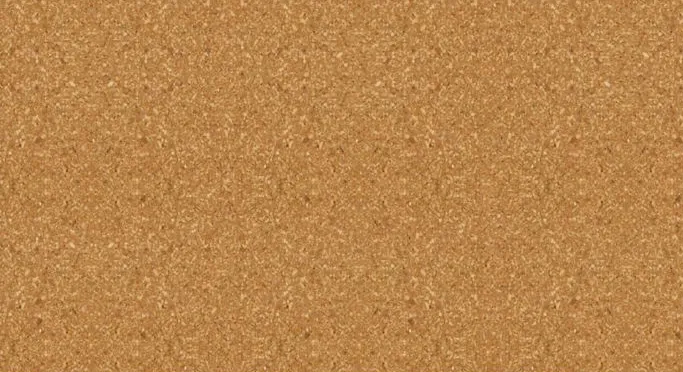
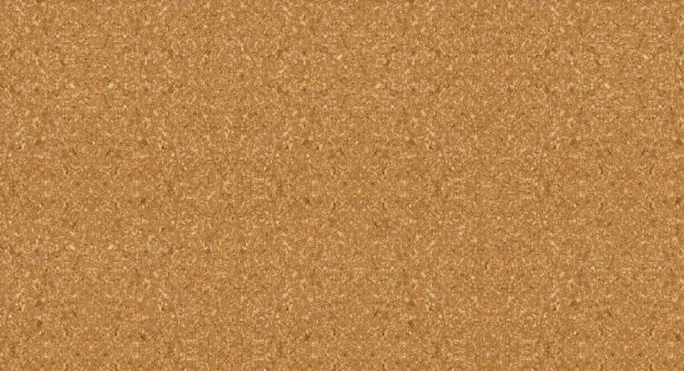
feat: arte real, tablon sin borde blanco, cabecera separada y escala de titulos
- Se usan las cuatro piezas aportadas: puerta y libros son recortes con
  transparencia y van como imagen; el megafono viene como TARJETA azul opaca,
  asi que 'Lo mas reciente' vuelve a ser azul y lo usa de fondo.
- El borde blanco del tablon seguia ahi porque el margen era ASIMETRICO
  (13/17/7/11 px) y trim() compara contra una esquina. Ahora se detecta donde
  empieza la madera de verdad. El marco pasa de 35 px de corte.
- Cabecera fija con borde y sombra: se distingue del contenido al bajar.
- Titulares mas grandes y entradilla algo menor.
- Avatar mas grande (h-60) y traido hacia el centro.

Changed region(s): [[0.0, 0.0, 1.0, 1.0]]

diff --git a/components/Inicio.tsx b/components/Inicio.tsx
@@ -2,6 +2,7 @@
 
 import { useId, useMemo, useState } from 'react';
 import Link from 'next/link';
+import Image from 'next/image';
 import { useRouter } from 'next/navigation';
 import { AvatarGuia, type Pose } from './AvatarGuia';
 import { BurbujaDialogo } from './BurbujaDialogo';
@@ -11,9 +12,7 @@ import {
   IconoLugar,
   IconoLupa,
   IconoReloj,
-  Libros,
   Megafono,
-  PuertaAbierta,
   Subrayado,
 } from './Ilustraciones';
 import { useRol } from './ProveedorRol';
@@ -108,7 +107,7 @@ export function Inicio({ vistas }: { vistas: Vistas }) {
               Escuela Superior [Nombre]
             </p>
 
-            <h1 className="font-titulo text-tinta mt-4 text-[2.7rem] leading-[1.02] font-bold tracking-[-0.02em] sm:text-6xl">
+            <h1 className="font-titulo text-tinta mt-4 text-[3.1rem] leading-[0.98] font-bold tracking-[-0.03em] sm:text-7xl">
               Por dónde{' '}
               {/* El subrayado se ancla a la palabra, no al titular: si el
                   texto cambia de largo o salta de línea, el trazo lo sigue.
@@ -129,7 +128,10 @@ export function Inicio({ vistas }: { vistas: Vistas }) {
           {/* La burbuja va ENCIMA del avatar, con el pico apuntando a su
               cabeza. Antes iba al lado y el conjunto no se leía como que
               hablara él. */}
-          <div className="hidden shrink-0 flex-col items-start md:flex">
+          {/* El margen derecho lo trae hacia el centro: en un contenedor de
+              90 rem, `justify-between` lo empujaba contra el borde de la
+              pantalla y quedaba desconectado del titular. */}
+          <div className="hidden shrink-0 flex-col items-start md:flex lg:mr-16 xl:mr-32">
             {/* Altura RESERVADA. El texto de la burbuja cambia de largo entre
                 secciones y además se escribe letra a letra, así que su alto
                 crecía línea a línea y empujaba toda la página hacia abajo en
@@ -145,7 +147,7 @@ export function Inicio({ vistas }: { vistas: Vistas }) {
                 }
               />
             </div>
-            <AvatarGuia pose={pose} className="mt-5 ml-2 h-36 w-auto lg:h-44" />
+            <AvatarGuia pose={pose} className="mt-5 ml-4 h-48 w-auto lg:h-60" />
           </div>
         </div>
 
@@ -201,20 +203,34 @@ export function Inicio({ vistas }: { vistas: Vistas }) {
       <section className="contenedor pb-4">
         <div className="grid gap-5 lg:grid-cols-2">
           {vistas.destacada ? (
+            /*
+              La pieza del megáfono viene como TARJETA, no como recorte: es un
+              rectángulo azul opaco con el megáfono abajo a la derecha y el
+              resto liso para poner texto encima. Así que se usa tal cual, de
+              fondo con `cover` anclado abajo a la derecha — el megáfono
+              sobrevive a cualquier recorte y el azul liso rellena el resto.
+              El color de respaldo es el mismo azul del archivo (#123f84), no
+              azul-900, para que no se vea el canto si la imagen tarda.
+              Blanco sobre ese azul mide 10.14:1.
+            */
             <Link
               href={`/noticias/${vistas.destacada.slug}`}
-              className="group bg-azul-100 relative flex flex-col overflow-hidden rounded-3xl p-8"
+              className="group relative flex flex-col overflow-hidden rounded-3xl bg-[#123f84] p-8 text-white"
+              style={{
+                backgroundImage: "url('/megafono.webp')",
+                backgroundSize: 'cover',
+                backgroundPosition: 'right bottom',
+              }}
             >
-              <Megafono className="pointer-events-none absolute right-4 bottom-4 h-28 w-auto opacity-90" />
               <div className="relative max-w-sm">
-                <p className="text-azul-700 text-xs font-semibold tracking-[0.16em] uppercase">
+                <p className="text-ambar text-xs font-semibold tracking-[0.16em] uppercase">
                   Lo más reciente
                 </p>
-                <h2 className="font-titulo text-tinta mt-4 text-3xl leading-[1.06] font-bold tracking-[-0.015em]">
+                <h2 className="font-titulo mt-4 text-3xl leading-[1.06] font-bold tracking-[-0.015em]">
                   {vistas.destacada.titulo}
                 </h2>
                 {vistas.destacada.bajada ? (
-                  <p className="text-gris mt-3 leading-relaxed">
+                  <p className="mt-3 leading-relaxed text-white/85">
                     {vistas.destacada.bajada}
                   </p>
                 ) : null}
@@ -225,7 +241,7 @@ export function Inicio({ vistas }: { vistas: Vistas }) {
                     {vistas.destacada.etiqueta}
                   </span>
                 ) : null}
-                <span className="text-gris flex items-center gap-2 text-sm">
+                <span className="flex items-center gap-2 text-sm text-white/80">
                   <IconoCalendario className="h-4 w-4" />
                   {vistas.destacada.fecha}
                 </span>
@@ -245,7 +261,13 @@ export function Inicio({ vistas }: { vistas: Vistas }) {
               aquí cierra la portada con lo único que de verdad hace falta
               saber para pasar por la oficina: dónde y cuándo. */}
           <div className="bg-crema border-tinta/10 relative overflow-hidden rounded-3xl border p-8">
-            <PuertaAbierta className="pointer-events-none absolute right-2 bottom-2 hidden h-44 w-auto sm:block" />
+            <Image
+              src="/puerta.webp"
+              alt=""
+              width={416}
+              height={386}
+              className="pointer-events-none absolute right-3 bottom-3 hidden h-48 w-auto sm:block"
+            />
             <div className="relative max-w-sm">
               <h2 className="font-titulo text-tinta text-3xl leading-[1.06] font-bold tracking-[-0.015em]">
                 La puerta está <em className="text-azul-700 italic">abierta</em>
@@ -380,7 +402,13 @@ function Buscador({
           Buscar
         </button>
 
-        <Libros className="pointer-events-none hidden h-24 w-auto shrink-0 lg:block" />
+        <Image
+          src="/libros.webp"
+          alt=""
+          width={418}
+          height={298}
+          className="pointer-events-none hidden h-24 w-auto shrink-0 lg:block"
+        />
       </form>
 
       <p

diff --git a/app/consejered/page.tsx b/app/consejered/page.tsx
@@ -42,7 +42,7 @@ export default async function PaginaPasillo() {
       ) : (
         // El tablón va en DOS capas, y esa separación es lo que quita las
         // costuras que cruzaban el corcho:
-        //   · El marco, con border-image y un corte de 38 px medido sobre la
+        //   · El marco, con border-image y un corte de 35 px medido sobre la
         //     foto. SIN `fill`, para que no rellene también el centro.
         //   · El corcho, recortado a su propio archivo y puesto de fondo con
         //     `cover`: al escalarse en vez de repetirse no hay junta posible.
@@ -54,7 +54,7 @@ export default async function PaginaPasillo() {
           className="bg-corcho mt-10 border-[16px] p-5 shadow-[0_20px_45px_-20px_rgba(0,0,0,.55)] sm:border-[30px] sm:p-12"
           style={{
             borderImageSource: "url('/corcho-marco.webp')",
-            borderImageSlice: '38',
+            borderImageSlice: '35',
             borderImageRepeat: 'stretch',
             backgroundImage: "url('/corcho-centro.webp')",
             backgroundSize: 'cover',

diff --git a/components/EncabezadoSeccion.tsx b/components/EncabezadoSeccion.tsx
@@ -51,13 +51,13 @@ export function EncabezadoSeccion({
       {/* El titular manda: grande de verdad, y la entradilla por debajo del
           tamaño del cuerpo para que no le compita. Antes iban casi igual de
           grandes y el conjunto no tenía jerarquía. */}
-      <h1 className="font-titulo text-tinta mx-auto mt-6 max-w-4xl text-[2.9rem] leading-[0.98] font-bold tracking-[-0.025em] text-balance sm:text-6xl lg:text-7xl">
+      <h1 className="font-titulo text-tinta mx-auto mt-6 max-w-4xl text-[3.3rem] leading-[0.96] font-bold tracking-[-0.03em] text-balance sm:text-7xl lg:text-[5.25rem]">
         {antes} <em className={`${color} italic`}>{acento}</em>
         {cola(despues)}
       </h1>
 
       {lede ? (
-        <p className="text-gris mx-auto mt-6 max-w-xl leading-relaxed text-pretty">
+        <p className="text-gris mx-auto mt-6 max-w-lg text-[0.98rem] leading-relaxed text-pretty">
           {lede}
         </p>
       ) : null}

diff --git a/components/Encabezado.tsx b/components/Encabezado.tsx
@@ -20,7 +20,7 @@ const NAV = [
  */
 export function Encabezado() {
   return (
-    <header className="bg-papel border-tinta/15 border-b">
+    <header className="bg-crema border-tinta/20 sticky top-0 z-30 border-b shadow-[0_1px_0_rgba(22,32,46,.06),0_6px_18px_-12px_rgba(22,32,46,.35)]">
       <div className="mx-auto flex max-w-6xl items-center gap-4 px-5 py-4">
         <Link
           href="/"
